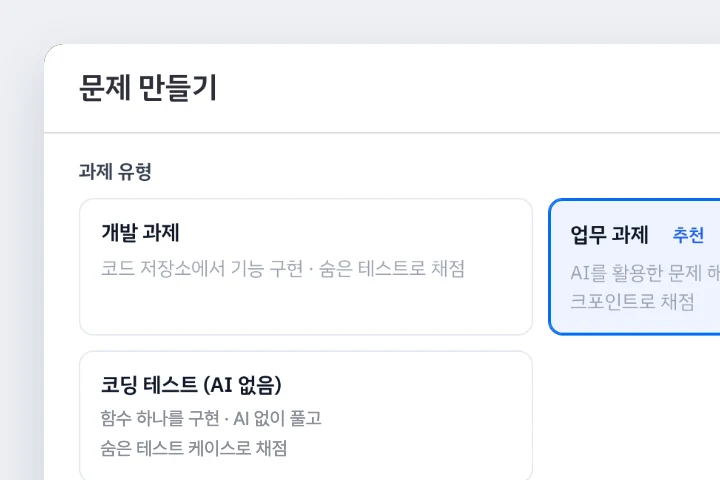
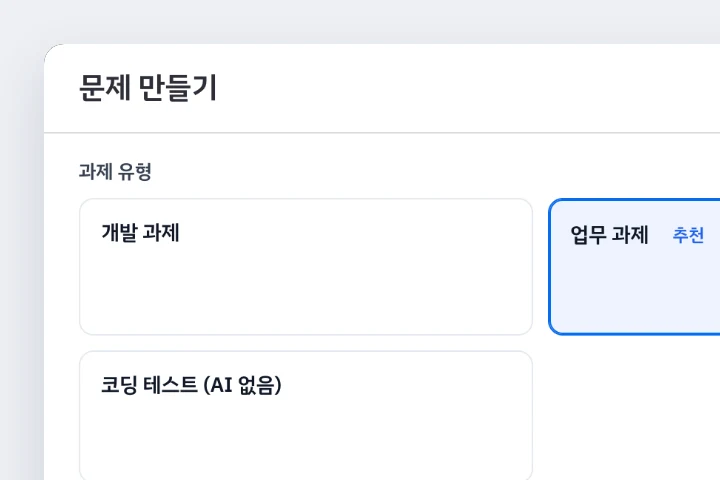
AI 역량검사 과제 만들기 카드: 일반 직군 화면, 회색 글씨 정리, 카드 회색 배경
- STEP 01 채용공고: 브랜드 디자이너(가상 브랜드) → 일반 직군 '서비스 기획자' 공고
- STEP 02 문제 만들기: 과제 유형 카드의 회색 설명 글을 지우고 제목만
- STEP 03 평가 기준: 둘째 줄 탭의 디자이너 역량 → 서비스 기획자 역량
  (요구사항 정리와 우선순위, 데이터 기반 개선 기획 — 첫 줄 공통 항목은 그대로)
- 카드 배경을 아래 화면 이미지 바탕과 같은 회색으로(.pstep.has-shot)

Changed region(s): [[0.1222, 0.8438, 0.4583, 0.9688], [0.1528, 0.5312, 0.6417, 0.5938], [0.7944, 0.5312, 1.0, 0.6562]]

diff --git a/app/landing.css b/app/landing.css
@@ -198,7 +198,7 @@
   /* 모션 최소화 선호 시 루프 애니메이션 정지 */
   @media(prefers-reduced-motion:reduce){.pstep,.pstep .pic{animation:none}}
   /* 단계 카드 아래 실제 제품 화면(2026-11-25, StepFlow의 img) — 카드 좌우·아래 여백만큼 밖으로 빼서 폭을 꽉 채우고, 길이가 다른 설명 아래에서도 이미지 높이를 맞춘다 */
-  .pstep.has-shot{display:flex;flex-direction:column;overflow:hidden;padding-bottom:0}
+  .pstep.has-shot{display:flex;flex-direction:column;overflow:hidden;padding-bottom:0;background:#EEF0F4} /* 카드 배경도 아래 화면 이미지 바탕과 같은 회색(11/25) */
   .pstep.has-shot .pstep-tag{align-self:center;margin-top:0}
   .pstep.has-shot p{margin-bottom:22px}
   .ps-shot{display:block;width:calc(100% + 2 * clamp(20px,2.2vw,28px));max-width:none;height:auto;margin:auto calc(-1 * clamp(20px,2.2vw,28px)) 0;background:#EEF0F4}
